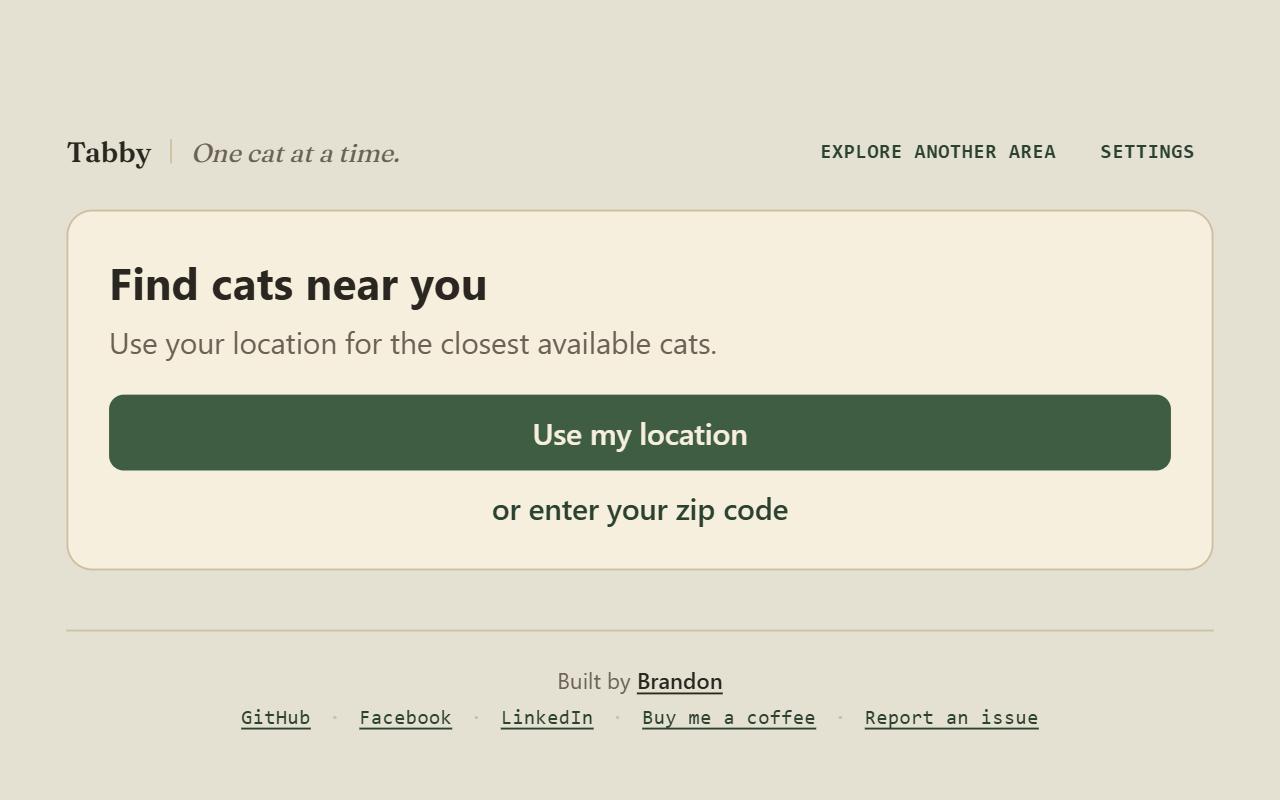
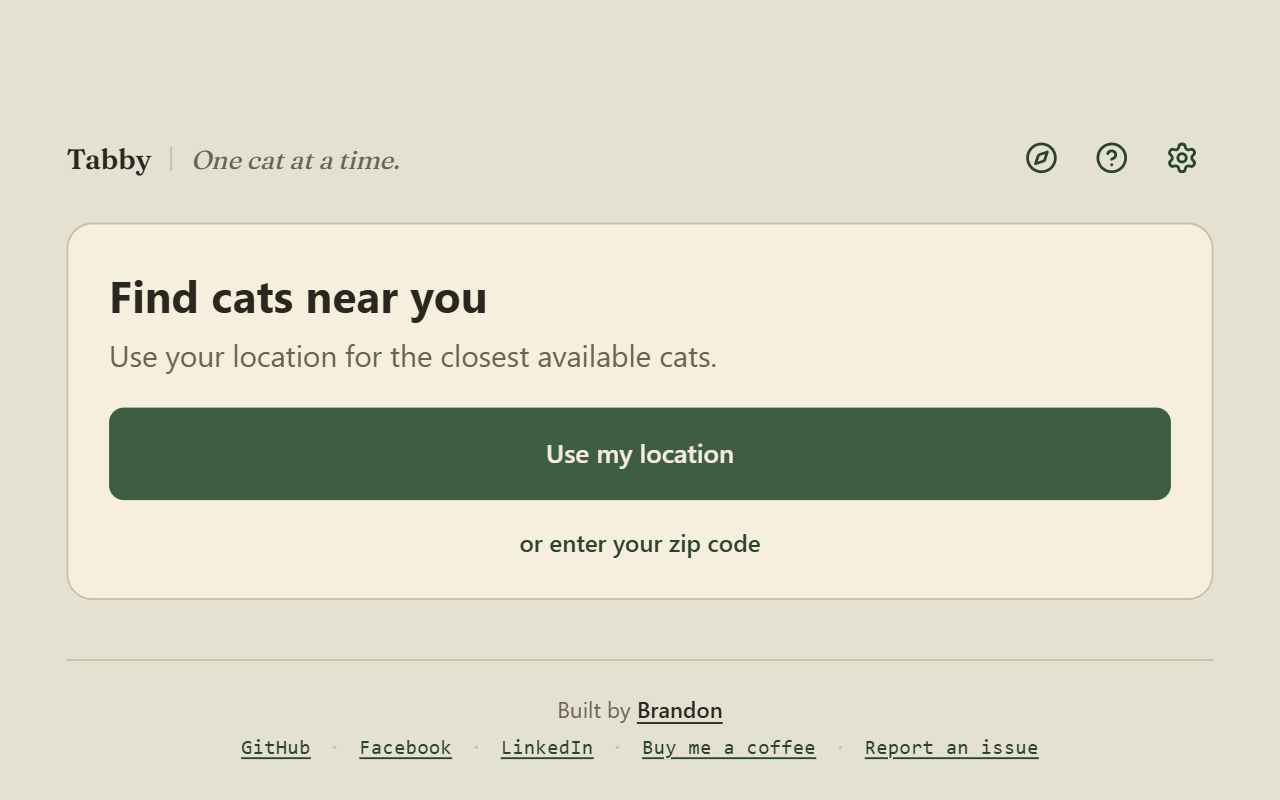
chore(webstore): fetch real header markup for screenshot capture, regenerate screenshots
Issue #66: screenshot-frame.source.html / screenshot-frame-options.source.html
hand-copied newtab.html/options.html's <main class="shell"> markup for
capture purposes. That copy went stale when the header switched to icon
buttons (#55/#63) and was never updated, so all 6 shipped screenshots
showed a header that no longer matches the real product.

Both harnesses now fetch the real newtab.html/options.html at capture
time and inject the actual <main class="shell"> markup into .stage,
instead of a hand copy -- the real newtab.js/options.js module script
is only appended once that injection completes, since it queries the
DOM on load. This can't drift out of sync again: whatever the real
HTML's body contains is exactly what gets captured.

Regenerated all 6 screenshots (1280x800, via Chrome DevTools' exact
viewport emulation against a local static server) to reflect the
current icon-button header. No listing copy changes -- out of scope
per the issue.

diff --git a/webstore/screenshot-frame.source.html b/webstore/screenshot-frame.source.html
@@ -13,14 +13,15 @@
   scales the whole rendered card up via CSS transform so it fills 80%+ of
   the canvas width instead of a fixed 620px.
 
-  The <main class="shell">...</main> markup below is hand-copied from
-  extension/newtab.html, since the real newtab.js's top-level functions
-  are private to its module scope (unlike the test suite's classic-script
-  inlining) and there's no clean way to fetch+inject the real HTML's body
-  without base-URL complications. If newtab.html's structure changes,
-  this copy needs to be updated to match -- same maintenance model as
-  promo-marquee.source.html / promo-small-tile.source.html already use for
-  their own hand-built markup.
+  Per issue #66: the <main class="shell">...</main> markup is fetched from
+  the real extension/newtab.html at load time and injected into .stage,
+  rather than hand-copied into this file -- a hand copy silently went stale
+  when the header switched to icon buttons (#55/#63), and all 6 shipped
+  screenshots drifted out of sync with the real product as a result. Fetching
+  the real markup means it can't drift again: whatever newtab.html's body
+  actually contains is exactly what gets captured. The real newtab.js module
+  script is only appended (and only starts running) once that injection
+  completes, since it queries the DOM for #card/#notice/etc. on load.
 
   Capture instructions:
   1. Serve the repo root at http://localhost:4173 (same convention as the
@@ -50,11 +51,12 @@
        meta this scene doesn't otherwise need, are in frame)
      screenshot-6-share.png:
        ?scene=share&scale=1.3&shiftY=-140
-       (auto-clicks the Share button 200ms after load; shifted down enough
-       to bring the actions row into frame -- the menu itself renders into
-       document.body, not .stage, so it isn't scaled by --scale, but it
-       still self-positions correctly since positionShareMenu() reads the
-       button's real post-transform rect)
+       (auto-clicks the Share button ~300ms after the real markup/script
+       are in place; shifted down enough to bring the actions row into
+       frame -- the menu itself renders into document.body, not .stage, so
+       it isn't scaled by --scale, but it still self-positions correctly
+       since positionShareMenu() reads the button's real post-transform
+       rect)
 
      screenshot-4-settings.png comes from the companion
      screenshot-frame-options.source.html (no query params needed -- the
@@ -98,50 +100,13 @@
 </style>
 </head>
 <body>
-  <div class="stage">
-    <main class="shell">
-      <header>
-        <div class="brand">
-          <p class="wordmark">Tabby</p>
-          <span class="brand-rule" aria-hidden="true"></span>
-          <p class="tagline">One cat at a time.</p>
-        </div>
-        <div class="header-actions">
-          <button id="explore" class="quiet" type="button">Explore another area</button>
-          <button id="settings" class="quiet">Settings</button>
-        </div>
-      </header>
-      <section id="card" class="card loading" aria-live="polite" hidden><p>Finding an adoptable cat near you…</p></section>
-      <section id="location-panel" class="location-panel" hidden>
-        <h1>Find cats near you</h1>
-        <p>Use your location for the closest available cats.</p>
-        <div class="location-actions">
-          <button id="use-location" class="primary" type="button">Use my location</button>
-          <button id="open-settings" class="secondary" type="button">or enter your zip code</button>
-        </div>
-      </section>
-      <p id="explore-banner" class="notice" role="status" hidden><span class="explore-text">Exploring near <span id="explore-label"></span>.</span><span class="explore-links"><button id="show-another-explore-cat" class="notice-link" type="button">Show another cat</button> · <button id="back-to-my-area" class="notice-link" type="button">Back to my area</button></span></p>
-      <p id="notice" class="notice" role="status" hidden></p>
-      <footer class="footer">
-        <p class="credit">Built by <a href="https://linke.ro/brandon" target="_blank" rel="noopener noreferrer">Brandon</a></p>
-        <p class="links">
-          <a href="https://github.com/BrandonML/tabby" target="_blank" rel="noopener noreferrer">GitHub</a>
-          <span class="sep">·</span>
-          <a href="https://www.facebook.com/scivolette" target="_blank" rel="noopener noreferrer">Facebook</a>
-          <span class="sep">·</span>
-          <a href="https://www.linkedin.com/in/scivolette/" target="_blank" rel="noopener noreferrer">LinkedIn</a>
-          <span class="sep">·</span>
-          <a href="https://buymeacoffee.com/scivolette" target="_blank" rel="noopener noreferrer">Buy me a coffee</a>
-          <span class="sep">·</span>
-          <a href="https://github.com/BrandonML/tabby/issues" target="_blank" rel="noopener noreferrer">Report an issue</a>
-        </p>
-      </footer>
-    </main>
-  </div>
+  <div class="stage"></div>
 <script>
-  // Stubs chrome.* and fetch with canned data instead of a live API call --
-  // this classic script runs before the deferred module script below, so
-  // the real newtab.js sees these in place from its very first line.
+  // Stubs chrome.* and fetch with canned data instead of a live API call.
+  // Runs, and completes the real-markup injection below, before the real
+  // newtab.js module script is ever added to the page -- see the header
+  // comment for why injection can't just race the original static
+  // <script type="module"> tag this file used to have.
   const scene = new URLSearchParams(location.search).get('scene') || 'main';
 
   const SAMPLE_CARD = {
@@ -184,33 +149,47 @@
     tabs: { query: (_q, cb) => cb([{ id: 1 }]), update: () => {} }
   };
 
+  const realFetch = window.fetch.bind(window);
   window.fetch = async (url, opts) => {
     if (scene === 'explore' && String(url).includes('/api/nearby-cats')) {
       return { ok: true, json: async () => ({ cards: [EXPLORE_CARD], radiusMiles: 25 }) };
     }
-    // Any other call (a background refresh, etc.) is a no-op that never
+    // Any other call to the (stubbed-out) API is a no-op that never
     // resolves -- the initial render already came from the seeded cache
-    // above, so nothing should visibly change if this fires.
-    return new Promise(() => {});
+    // above, so nothing should visibly change if this fires. The real
+    // fetch is kept around (see realFetch above) for this file's own
+    // markup-injection fetch just below, which does need to hit the network.
+    if (String(url).includes('/api/')) return new Promise(() => {});
+    return realFetch(url, opts);
   };
-
-  if (scene === 'explore') {
-    window.addEventListener('load', () => {
-      setTimeout(() => document.getElementById('explore').click(), 200);
-    });
-  }
-
-  if (scene === 'share') {
-    window.addEventListener('load', () => {
-      setTimeout(() => document.querySelector('#card .share')?.click(), 200);
-    });
-  }
 
   const scaleOverride = new URLSearchParams(location.search).get('scale');
   if (scaleOverride) document.documentElement.style.setProperty('--scale', scaleOverride);
   const shiftYOverride = new URLSearchParams(location.search).get('shiftY');
   if (shiftYOverride) document.documentElement.style.setProperty('--shift-y', `${shiftYOverride}px`);
+
+  async function boot() {
+    const response = await window.fetch('http://localhost:4173/extension/newtab.html');
+    const html = await response.text();
+    const shell = new DOMParser().parseFromString(html, 'text/html').querySelector('main.shell');
+    document.querySelector('.stage').appendChild(document.importNode(shell, true));
+
+    const script = document.createElement('script');
+    script.type = 'module';
+    script.src = 'http://localhost:4173/extension/newtab.js';
+    document.body.appendChild(script);
+
+    // newtab.js's own init (including the explore/share scene triggers
+    // below) needs a beat after its module script is appended to attach
+    // event listeners and render the seeded card.
+    if (scene === 'explore') {
+      setTimeout(() => document.getElementById('explore').click(), 300);
+    }
+    if (scene === 'share') {
+      setTimeout(() => document.querySelector('#card .share')?.click(), 300);
+    }
+  }
+  boot();
 </script>
-<script type="module" src="http://localhost:4173/extension/newtab.js"></script>
 </body>
 </html>

diff --git a/webstore/screenshot-frame-options.source.html b/webstore/screenshot-frame-options.source.html
@@ -1,9 +1,10 @@
 <!doctype html>
 <!--
   Companion to screenshot-frame.source.html for the Settings screenshot --
-  see that file's header comment for the full rationale. This one wraps
-  options.html's markup instead of newtab.html's, since it's a separate
-  page with its own script (options.js) rather than a "scene" of newtab.js.
+  see that file's header comment for the full rationale, including why (per
+  issue #66) the <main class="shell">...</main> markup is fetched from the
+  real extension/options.html at load time and injected into .stage, rather
+  than hand-copied into this file.
 
   Capture instructions: same as screenshot-frame.source.html -- serve the
   repo root at http://localhost:4173, then open
@@ -21,42 +22,26 @@
 </style>
 </head>
 <body>
-  <div class="stage">
-    <main class="shell">
-      <header>
-        <p class="eyebrow">TABBY SETTINGS</p>
-        <button id="close-settings" class="quiet" type="button" aria-label="Close settings">Close</button>
-      </header>
-      <section class="location-panel">
-        <h1>Your Location</h1>
-        <p class="panel-sub">Tabby uses this to find adoptable cats nearest to you.</p>
-        <form id="settings-form">
-          <div class="location-actions">
-            <button id="use-location" class="primary" type="button">Use my location</button>
-          </div>
-          <p class="or-divider"><span></span>or<span></span></p>
-          <div class="zip-field-block">
-            <div class="zip-field">
-              <div class="form-floating">
-                <input id="zip" type="text" inputmode="numeric" maxlength="5" pattern="[0-9]{5}" placeholder=" ">
-                <label for="zip">Zip code</label>
-              </div>
-              <button type="submit">Save</button>
-            </div>
-            <p class="field-hint">Optional — skip this if you use your location.</p>
-          </div>
-        </form>
-        <p id="saved" class="notice" role="status" hidden></p>
-      </section>
-    </main>
-  </div>
+  <div class="stage"></div>
 <script>
   window.chrome = {
     storage: { local: { get: async () => ({ settings: { postalcode: '90210' } }), set: async () => {} } },
     runtime: { getURL: (path) => path },
     tabs: { query: (_q, cb) => cb([{ id: 1 }]) }
   };
+
+  async function boot() {
+    const response = await fetch('http://localhost:4173/extension/options.html');
+    const html = await response.text();
+    const shell = new DOMParser().parseFromString(html, 'text/html').querySelector('main.shell');
+    document.querySelector('.stage').appendChild(document.importNode(shell, true));
+
+    const script = document.createElement('script');
+    script.type = 'module';
+    script.src = 'http://localhost:4173/extension/options.js';
+    document.body.appendChild(script);
+  }
+  boot();
 </script>
-<script type="module" src="http://localhost:4173/extension/options.js"></script>
 </body>
 </html>
